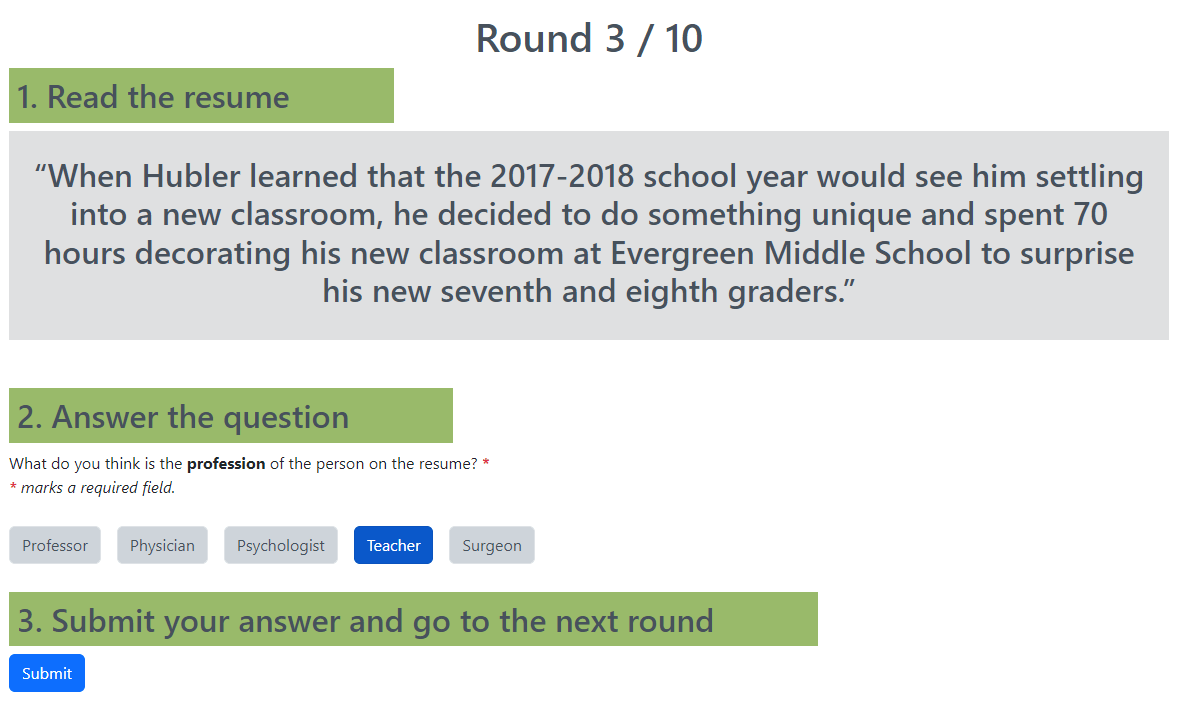
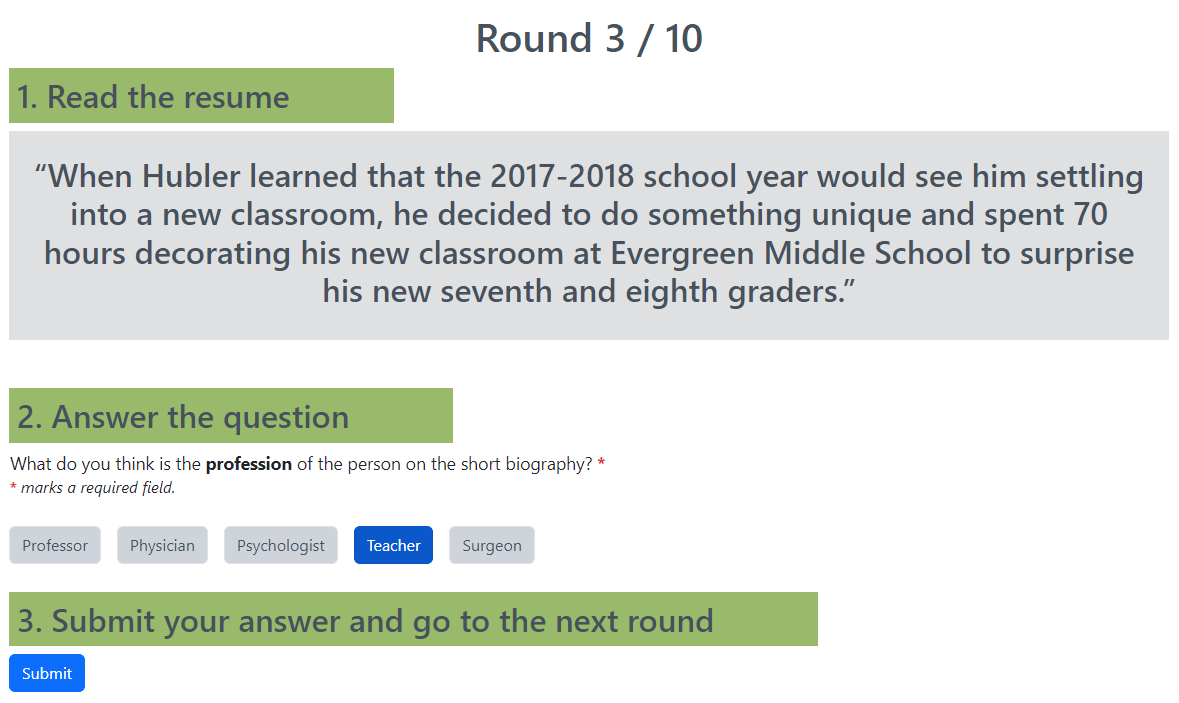
wip(changes) Changes at demographic wording,changes at instruction pages and its pictures, renaming words, adapted social media links
related:#58

Changed region(s): [[0.0, 0.6273, 0.5191, 0.6871]]

diff --git a/src/components/StudyInstruction.vue b/src/components/StudyInstruction.vue
@@ -9,32 +9,31 @@
         </div>
 
         <div>
-          <div>During this part you will be shown 20 different short resumes.
-            For each, again decide which of the five given professions the person to whom the resume belongs is most
-            likely to have.
+          <div>During this part you will be shown 20 different short biographies.
+            For each, again choose the most suitable of five professions for the person on the short biography.
           </div>
 
           <div class="mt-4">
             These professions are:
             <ul>
-              <li>professor - a teacher of the highest rank in a department of a British university, or a teacher of
-                high rank in an American university or college
+              <li>professor - a teacher of high rank in a department of a university or college who is also dedicated to
+                research
               </li>
-              <li>physician - a medical doctor, especially one who has general skill and is not a surgeon</li>
+              <li>teacher - a person who instructs or trains others, esp. in a school</li>
               <li>psychologist - someone who studies the human mind and human emotions and behaviour, and how different
                 situations have an effect on people
               </li>
-              <li>teacher - a person who instructs or trains others, esp. in a school</li>
+              <li>physician - a medical doctor, especially one who has general skill and is not a surgeon</li>
               <li>surgeon - a doctor who is specially trained to perform medical operations</li>
             </ul>
           </div>
 
           <div class="mt-4">
-            This time, our AI tells you the profession it has calculated for the person of the resume to help you make your
-            decision.
+            This time, our AI tells you the profession it has calculated for the person on the short biography to help you make
+            your decision.
             <span v-if="this.store.study_condition === 'with_explanation_highlights'">
               <br>
-               <strong>Also, the AI highlights words in the resume that led to its prediction.</strong>
+               <strong>Also, the AI highlights words in the short biography that led to its prediction.</strong>
               <br>
               <span style="background-color: rgb(255, 0, 82);">Red</span> means the highlighted word supports the AI's prediction. The more red the highlighted word is the stronger it supports the prediction of our AI.
               <br>

diff --git a/src/components/SocialMediaShare.vue b/src/components/SocialMediaShare.vue
@@ -8,7 +8,7 @@
               <font-awesome-icon icon="fa-brands fa-facebook-f" size="2x"/>
             </div>
           </a>
-          <a href="https://twitter.com/intent/tweet?url=https://gender-bias-litw.fortiss-demo.org&text=Have%20you%20ever%20wanted%20to%20know%20how%20biased%20you%20are%20compared%20to%20an%20AI?%20Choose%20one%20profession%20each%20on%20several%20resumes%20and%20we%20will%20tell%20you%20how%20you%20perform%20and%20compare%20you%20to%20our%20AI%20and%20others!" target="_blank" class="social-button mx-1 d-grid">
+          <a href="https://twitter.com/intent/tweet?url=https://gender-bias-litw.fortiss-demo.org&text=Have%20you%20ever%20wanted%20to%20know%20how%20biased%20you%20are%20compared%20to%20an%20AI?%20Choose%20one%20profession%20each%20on%20several%20short%20biographies%20and%20we%20will%20tell%20you%20how%20you%20perform%20and%20compare%20your%20gender%20bias%20score%20to%20our%20AI%20and%20others!" target="_blank" class="social-button mx-1 d-grid">
             <div class="text-center align-self-center">
               <font-awesome-icon icon="fa-brands fa-twitter" size="2x"></font-awesome-icon>
             </div>
@@ -26,7 +26,7 @@
               <font-awesome-icon icon="fa-brands fa-whatsapp" size="2x"/>
             </div>
           </a>
-          <a href="https://telegram.me/share/url?url=https://gender-bias-litw.fortiss-demo.org&text=Have%20you%20ever%20wanted%20to%20know%20how%20biased%20you%20are%20compared%20to%20an%20AI?%20Choose%20one%20profession%20each%20on%20several%20resumes%20and%20we%20will%20tell%20you%20how%20you%20perform%20and%20compare%20you%20to%20our%20AI%20and%20others!" target="_blank" class="social-button mx-1 d-grid">
+          <a href="https://telegram.me/share/url?url=https://gender-bias-litw.fortiss-demo.org&text=Have%20you%20ever%20wanted%20to%20know%20how%20biased%20you%20are%20compared%20to%20an%20AI?%20Choose%20one%20profession%20each%20on%20several%20short%20biographies%20and%20we%20will%20tell%20you%20how%20you%20perform%20and%20compare%20your%20gender%20bias%20score%20to%20our%20AI%20and%20others!" target="_blank" class="social-button mx-1 d-grid">
             <div class="text-center align-self-center">
               <font-awesome-icon icon="fa-brands fa-telegram" size="2x"/>
             </div>

diff --git a/src/components/LabellingInstruction.vue b/src/components/LabellingInstruction.vue
@@ -8,21 +8,19 @@
 
         <div>
           <div>During this part you will be shown 10 different short biographies.
-<!--            TODO: change sentence-->
-            For each, decide which of the five given professions the person in the short biography is most likely to
-            have.
+            For each, choose the most suitable of five professions for the person on the short biography.
           </div>
           <div class="mt-4">
             These professions are:
             <ul>
-              <li>professor - a teacher of the highest rank in a department of a British university, or a teacher of
-                high rank in an American university or college
+              <li>professor - a teacher of high rank in a department of a university or college who is also dedicated to
+                research
               </li>
-              <li>physician - a medical doctor, especially one who has general skill and is not a surgeon</li>
+              <li>teacher - a person who instructs or trains others, esp. in a school</li>
               <li>psychologist - someone who studies the human mind and human emotions and behaviour, and how different
                 situations have an effect on people
               </li>
-              <li>teacher - a person who instructs or trains others, esp. in a school</li>
+              <li>physician - a medical doctor, especially one who has general skill and is not a surgeon</li>
               <li>surgeon - a doctor who is specially trained to perform medical operations</li>
             </ul>
           </div>
@@ -45,8 +43,8 @@
 
         <button @click="validateForm" type="submit" class="btn btn-primary my-5">
           Let's start!
-          <font-awesome-icon v-if="!this.loading" icon="fa-solid fa-arrow-right" />
-          <font-awesome-icon v-if="this.loading" icon="fa-solid fa-circle-notch" spin />
+          <font-awesome-icon v-if="!this.loading" icon="fa-solid fa-arrow-right"/>
+          <font-awesome-icon v-if="this.loading" icon="fa-solid fa-circle-notch" spin/>
         </button>
       </div>
     </div>

diff --git a/src/components/DemographicQuestions.vue b/src/components/DemographicQuestions.vue
@@ -63,7 +63,7 @@
             label-class="font-weight-bold"
         >
           <template v-slot:label>
-            What is the highest level of education that you have received or are pursuing? <span
+            What is the highest level of education that you have received? <span
               class="text-danger fw-bolder">*</span>
           </template>
           <b-form-select
@@ -186,19 +186,21 @@ export default {
         {text: "Male", value: "male"},
         {text: "Female", value: "female"},
         {text: "Divers", value: "divers"},
-        {text: "Other", value: "other"},
+        {text: "Prefer not to say", value: "prefer_not_to_say"},
       ],
       mlKnowledge: [
-        {text: "No experience", value: "no_experience"},
-        {text: "Some experience", value: "some_experience"},
-        {text: "A lot of experience", value: "a_lot_of_experience"},
+        {text: "No experience (e.g. you have never studied machine learning)", value: "no_experience"},
+        {text: "Basic experience (e.g. you have taken a course on machine learning)", value: "basic_experience"},
+        {text: "Intermediate experience (e.g. you have implemented 1-2 small projects)", value: "intermediate_experience"},
+        {text: "Advanced experience (e.g. you have implemented some more complex projects)", value: "advanced_experience"},
+        {text: "Expert experience (e.g. you have several years of experience in machine learning)", value: "expert_experience"},
       ],
       aiAttitude: [
-        {text: "Rejecting", value: "rejecting"},
-        {text: "Rather rejecting", value: "rather_rejecting"},
+        {text: "Negative", value: "negative"},
+        {text: "Rather negative", value: "rather_negative"},
         {text: "Neutral", value: "neutral"},
-        {text: "Rather affirming ", value: "rather_affirming"},
-        {text: "Affirming", value: "affirming"},
+        {text: "Rather positive ", value: "rather_positive"},
+        {text: "Positive", value: "positive"},
       ],
     }
   },

diff --git a/src/components/Results.vue b/src/components/Results.vue
@@ -115,7 +115,7 @@
                                 class="mb-3"/>
               <div v-if="isNaN(this.acc_you[0])">We are sorry that we can't calculate your personal accuracy.</div>
               <div v-if="isFinite(this.acc_you[0])">You assigned the right profession to {{ this.acc_you[0] }}% of all
-                resumes!
+                short biographies!
               </div>
               <div v-if="isFinite(this.acc_you[0]) && this.acc_you[0] > 89.03">This means that you worked <strong>more
                 accurately</strong> than our AI, which has an accuracy of 89.03%.
@@ -224,7 +224,7 @@
             <h2>Thank you for participating in our study! We hope you had fun.</h2>
             <p class="mt-4">
               Your results will help us gaining insights in two main areas. <br>
-              First, we will be able to rate the difficulty of the different resumes based on the percentage of the most
+              First, we will be able to rate the difficulty of the different short biographies based on the percentage of the most
               common profession chosen by the users.
               Prior work suggested that reliance on AI-suggested assistance increases as the task's complexity rises
               [2].

diff --git a/src/components/ProfessionSelection.vue b/src/components/ProfessionSelection.vue
@@ -3,7 +3,7 @@
       class="mb-4"
       label-class="font-weight-bold">
     <template v-slot:label>
-      What do you think is the <b>profession</b> of the person on the resume? <span
+      What do you think is the <b>profession</b> of the person on the short biography? <span
         class="text-danger fw-bolder">*</span>
       <br>
       <i><span class="text-danger fw-bold">*</span> marks a required field.</i>
